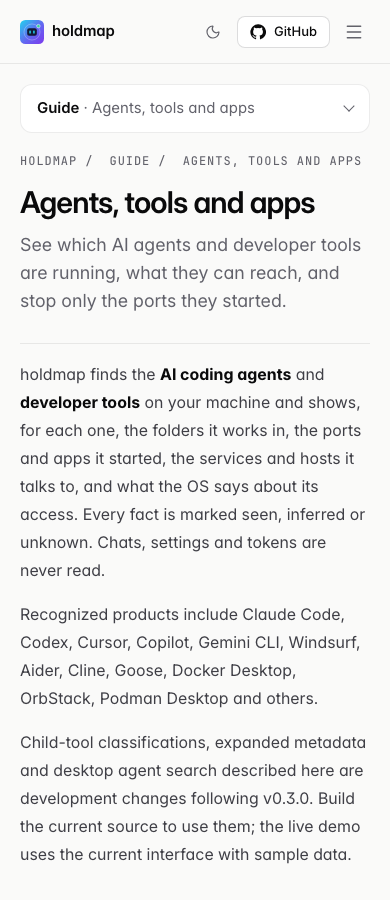
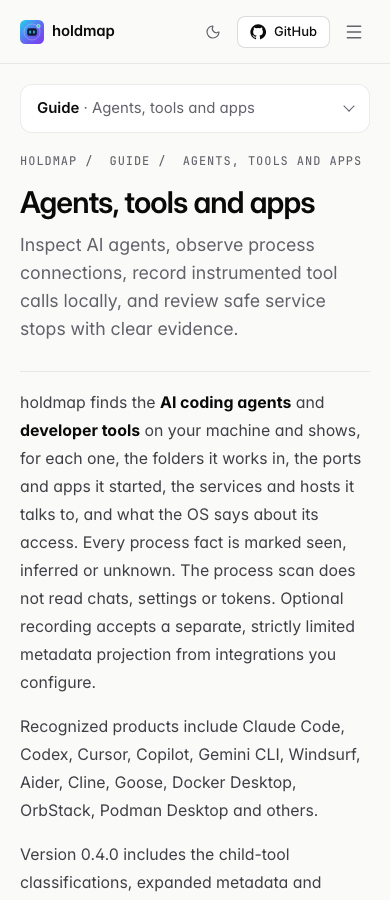
docs: complete public website and current-source guides

Changed region(s): [[0.0308, 0.4044, 0.9231, 0.9956], [0.0615, 0.2489, 0.9231, 0.3733]]

diff --git a/crates/holdmap-cli/src/cli_docs.rs b/crates/holdmap-cli/src/cli_docs.rs
@@ -20,10 +20,24 @@ fn visible_subcommands(cmd: &clap::Command) -> Vec<&clap::Command> {
         .collect()
 }
 
+fn visible_command_paths(cmd: &clap::Command) -> Vec<Vec<String>> {
+    let mut paths = Vec::new();
+    for sub in visible_subcommands(cmd) {
+        let name = sub.get_name().to_owned();
+        paths.push(vec![name.clone()]);
+        for mut path in visible_command_paths(sub) {
+            path.insert(0, name.clone());
+            paths.push(path);
+        }
+    }
+    paths
+}
+
 /// Render the Markdown reference for the whole CLI.
 pub fn reference() -> String {
     let mut root = Cli::command().term_width(WIDTH).max_term_width(WIDTH);
     root.build();
+    let paths = visible_command_paths(&root);
     let mut out = String::new();
     out.push_str("# holdmap CLI reference\n\n");
     out.push_str(
@@ -31,8 +45,9 @@ pub fn reference() -> String {
          HOLDMAP_BLESS=1 cargo test -p holdmap cli_reference -->\n\n",
     );
     out.push_str(&format!(
-        "This page is the `--help` output of every command of holdmap {}. `cargo test` checks it\n\
-         against the code, so it never drifts. For an overview see the [README](../README.md).\n\n",
+        "This page is the `--help` output of every command and nested subcommand in the current\n\
+         source (package version {}). `cargo test` checks it against the code. Released downloads\n\
+         may predate commands or options shown here; see the [README](../README.md) for release availability.\n\n",
         env!("CARGO_PKG_VERSION")
     ));
     out.push_str(
@@ -41,7 +56,12 @@ pub fn reference() -> String {
                   `--no-docker`.\n\n",
     );
     out.push_str("| Command | What it does |\n|---|---|\n");
-    for sub in visible_subcommands(&root) {
+    for path in &paths {
+        let mut sub = &root;
+        for name in path {
+            sub = sub.find_subcommand(name).expect("subcommand");
+        }
+        let name = path.join(" ");
         let about = sub.get_about().map(|a| a.to_string()).unwrap_or_default();
         let aliases: Vec<_> = sub.get_visible_aliases().collect();
         let alias = if aliases.is_empty() {
@@ -50,20 +70,20 @@ pub fn reference() -> String {
             format!(" (alias `{}`)", aliases.join("`, `"))
         };
         out.push_str(&format!(
-            "| [`holdmap {name}`](#holdmap-{name}){alias} | {} |\n",
+            "| [`holdmap {name}`](#holdmap-{anchor}){alias} | {} |\n",
             about.trim_end_matches('.').replace('|', "\\|"),
-            name = sub.get_name()
+            anchor = name.replace(' ', "-")
         ));
     }
     out.push_str("\n## holdmap\n\n```text\n");
     out.push_str(root.render_long_help().to_string().trim_end());
     out.push_str("\n```\n");
-    let names: Vec<String> = visible_subcommands(&root)
-        .iter()
-        .map(|c| c.get_name().to_string())
-        .collect();
-    for name in names {
-        let sub = root.find_subcommand_mut(&name).expect("subcommand");
+    for path in paths {
+        let mut sub = &mut root;
+        for name in &path {
+            sub = sub.find_subcommand_mut(name).expect("subcommand");
+        }
+        let name = path.join(" ");
         let help = sub.render_help().to_string();
         out.push_str(&format!(
             "\n## holdmap {name}\n\n```text\n{}\n```\n",
@@ -76,6 +96,54 @@ pub fn reference() -> String {
         .collect::<Vec<_>>()
         .join("\n")
         + "\n"
+}
+
+#[test]
+fn nested_activity_help_includes_full_usage_and_integration_options() {
+    let reference = reference();
+    for (command, option) in [
+        ("activity serve", "--duration <DURATION>"),
+        ("activity snapshot", "--json"),
+        ("activity setup", "--windows"),
+        ("activity hook", "--provider <PROVIDER>"),
+    ] {
+        let heading = format!("\n## holdmap {command}\n");
+        assert_eq!(reference.matches(&heading).count(), 1);
+        let help = reference
+            .split_once(&heading)
+            .unwrap()
+            .1
+            .split("\n## ")
+            .next()
+            .unwrap();
+        assert!(help.contains(&format!("Usage: holdmap {command} ")));
+        assert!(help.contains(option), "{command} is missing {option}");
+        assert!(reference.contains(&format!("(#holdmap-{})", command.replace(' ', "-"))));
+    }
+}
+
+#[test]
+fn recursive_paths_preserve_depth_and_exclude_hidden_commands_and_help() {
+    let root = clap::Command::new("fixture")
+        .subcommand(
+            clap::Command::new("group")
+                .subcommand(clap::Command::new("nested").subcommand(clap::Command::new("leaf")))
+                .subcommand(clap::Command::new("hidden").hide(true))
+                .subcommand(clap::Command::new("help")),
+        )
+        .subcommand(
+            clap::Command::new("hidden-group")
+                .hide(true)
+                .subcommand(clap::Command::new("visible-child")),
+        );
+    assert_eq!(
+        visible_command_paths(&root),
+        vec![
+            vec!["group"],
+            vec!["group", "nested"],
+            vec!["group", "nested", "leaf"]
+        ]
+    );
 }
 
 #[test]
@@ -101,9 +169,9 @@ fn cli_reference_is_current() {
 fn readme_mentions_every_command() {
     let readme = std::fs::read_to_string(repo_root().join("README.md")).unwrap();
     let root = Cli::command();
-    let missing: Vec<_> = visible_subcommands(&root)
-        .iter()
-        .map(|c| c.get_name())
+    let missing: Vec<_> = visible_command_paths(&root)
+        .into_iter()
+        .map(|path| path.join(" "))
         .filter(|n| !readme.contains(&format!("holdmap {n}")))
         .collect();
     assert!(missing.is_empty(), "README.md doesn't mention: {missing:?}");

diff --git a/docs/cli.md b/docs/cli.md
@@ -3,8 +3,9 @@
 <!-- Generated from the clap definitions in crates/holdmap-cli. Do not edit by hand:
      HOLDMAP_BLESS=1 cargo test -p holdmap cli_reference -->
 
-This page is the `--help` output of every command of holdmap 0.4.0. `cargo test` checks it
-against the code, so it never drifts. For an overview see the [README](../README.md).
+This page is the `--help` output of every command and nested subcommand in the current
+source (package version 0.4.0). `cargo test` checks it against the code. Released downloads
+may predate commands or options shown here; see the [README](../README.md) for release availability.
 
 Global options (accepted by every command): `--color <auto|always|never>` (env `HOLDMAP_COLOR`; `NO_COLOR` and `CLICOLOR_FORCE` are honoured too) and `--no-docker`.
 
@@ -21,6 +22,10 @@ Global options (accepted by every command): `--color <auto|always|never>` (env `
 | [`holdmap graph`](#holdmap-graph) (alias `mesh`) | Show which services talk to which (dependencies, clusters) as a tree, JSON, DOT or Mermaid |
 | [`holdmap agents`](#holdmap-agents) | Show AI coding agents and developer tools: folders, access, ports and connections |
 | [`holdmap activity`](#holdmap-activity) | Record and inspect opt-in local agent activity metadata |
+| [`holdmap activity serve`](#holdmap-activity-serve) | Start an authenticated loopback recorder; metadata stays in memory until this exits |
+| [`holdmap activity snapshot`](#holdmap-activity-snapshot) | Read metadata from the recorder named by HOLDMAP_ACTIVITY_ENDPOINT and TOKEN |
+| [`holdmap activity setup`](#holdmap-activity-setup) | Print a reviewable exporter example; never edit agent configuration automatically |
+| [`holdmap activity hook`](#holdmap-activity-hook) | Project one Codex/Claude hook from stdin to metadata and forward it locally |
 | [`holdmap watch`](#holdmap-watch) | Stream port events: new listeners, closed listeners, conflicts |
 | [`holdmap pin`](#holdmap-pin) | Pin a port (favourite): shown first and watched even when free |
 | [`holdmap unpin`](#holdmap-unpin) | Remove a pin |
@@ -382,6 +387,68 @@ Options:
                        auto, always, never]
       --no-docker      Don't query Docker/Podman/OrbStack/Colima
   -h, --help           Print help
+```
+
+## holdmap activity serve
+
+```text
+Start an authenticated loopback recorder; metadata stays in memory until this exits
+
+Usage: holdmap activity serve [OPTIONS]
+
+Options:
+      --json                 Print endpoint and secret token as JSON for explicit integration setup
+      --duration <DURATION>  Stop automatically after this duration (1 second to 24 hours)
+      --color <COLOR>        When to use colours [env: HOLDMAP_COLOR=] [default: auto] [possible
+                             values: auto, always, never]
+      --no-docker            Don't query Docker/Podman/OrbStack/Colima
+  -h, --help                 Print help
+```
+
+## holdmap activity snapshot
+
+```text
+Read metadata from the recorder named by HOLDMAP_ACTIVITY_ENDPOINT and TOKEN
+
+Usage: holdmap activity snapshot [OPTIONS]
+
+Options:
+      --json           Machine-readable normalized metadata
+      --color <COLOR>  When to use colours [env: HOLDMAP_COLOR=] [default: auto] [possible values:
+                       auto, always, never]
+      --no-docker      Don't query Docker/Podman/OrbStack/Colima
+  -h, --help           Print help
+```
+
+## holdmap activity setup
+
+```text
+Print a reviewable exporter example; never edit agent configuration automatically
+
+Usage: holdmap activity setup [OPTIONS] --provider <PROVIDER>
+
+Options:
+      --provider <PROVIDER>  [possible values: codex, claude]
+      --windows              Generate PowerShell environment assignments instead of shell exports
+      --color <COLOR>        When to use colours [env: HOLDMAP_COLOR=] [default: auto] [possible
+                             values: auto, always, never]
+      --no-docker            Don't query Docker/Podman/OrbStack/Colima
+  -h, --help                 Print help
+```
+
+## holdmap activity hook
+
+```text
+Project one Codex/Claude hook from stdin to metadata and forward it locally
+
+Usage: holdmap activity hook [OPTIONS] --provider <PROVIDER>
+
+Options:
+      --provider <PROVIDER>  [possible values: codex, claude]
+      --color <COLOR>        When to use colours [env: HOLDMAP_COLOR=] [default: auto] [possible
+                             values: auto, always, never]
+      --no-docker            Don't query Docker/Podman/OrbStack/Colima
+  -h, --help                 Print help
 ```
 
 ## holdmap watch

diff --git a/docs/architecture.md b/docs/architecture.md
@@ -1000,8 +1000,9 @@ escaped text, including inline command spans. The browser demo has no native IPC
 
 ### Desktop UI
 
-- **UI kit.** `apps/desktop/src/components/ui/` is the only place that styles controls (fields,
-  selects, switches, buttons, dialogs, tabs…); feature components compose it. Open the app with
+- **UI kit.** `apps/desktop/src/components/ui/` provides shared controls (fields, selects,
+  switches, buttons, dialogs and tabs); feature components compose them and use the shared
+  design tokens for local controls. Open the app with
   `#ui-gallery` to see every control in both themes.
 - **Pure view logic.** `lib/rows.ts` (badges, status, sparklines), `lib/detail.ts` (details pane)
   and `lib/settings.ts` (the Settings contract) are pure and unit-tested, so components depend on
@@ -1135,6 +1136,7 @@ branch; editing source does not itself publish a site.
 | `crates/holdmap-core` | Collection providers, models, attribution, planning, execution and persistence |
 | `crates/holdmap-cli` | CLI rendering, shared reviewed agent actions, TUI view/state helpers, generated-document checks and stdio MCP integration tests |
 | `crates/holdmap-mcp` | Protocol adapter, contracts, live tools and pure discovery modules |
+| `crates/holdmap-activity` | Pure source adapters, shared metadata and credential policy, local collector, bounded client and setup generation |
 | `apps/desktop/src` | Shared Svelte UI, styles and TypeScript view logic |
 | `apps/desktop/src-tauri` | Native commands, state/cache, watcher, tray and OS integration |
 | `apps/desktop/e2e` | Browser regressions using deterministic sample data |
@@ -1156,7 +1158,7 @@ the browser suite on Linux. `scripts/check-all.sh` reproduces the full checks on
 host with its native desktop dependencies installed.
 
 Use Rust 1.95+ and Node.js 22.12+ (`nvm use`), with the native dependencies listed in
-[CONTRIBUTING.md](../CONTRIBUTING.md). `cargo test --locked` checks the core, CLI/TUI and MCP
+[CONTRIBUTING.md](../CONTRIBUTING.md). `cargo test --locked` checks core, CLI/TUI, MCP and activity
 default workspace members. Desktop `npm run check`, `npm test` and `npm run test:e2e` check
 types, pure view logic and production UI flows. Site checks build the shared demo and verify
 guides, links and asset budgets; site `npm run test:demo` launches a preview and checks the

diff --git a/CONTRIBUTING.md b/CONTRIBUTING.md
@@ -34,6 +34,7 @@ The repository root is the Rust workspace; each surface keeps its source and too
 | `crates/holdmap-core/` | Shared port scanning, ownership, safety policy and stop execution |
 | `crates/holdmap-cli/` | CLI and TUI, with integration tests |
 | `crates/holdmap-mcp/` | MCP adapter over the shared core |
+| `crates/holdmap-activity/` | Optional local recording, source adapters, metadata policy and bounded transport |
 | `apps/desktop/src/` | Svelte and TypeScript desktop UI, including browser demo data |
 | `apps/desktop/e2e/` | Browser tests against the built desktop UI in demo mode |
 | `apps/desktop/src-tauri/` | Native desktop integration, Tauri configuration and icons |
@@ -75,7 +76,7 @@ cargo fmt --all --check
 (cd apps/desktop && npm run check && npm test && npm run test:e2e) # builds the UI before native checks
 cargo clippy --workspace --all-targets --locked -- -D warnings
 cargo test --workspace --locked
-RUSTDOCFLAGS="-D warnings" cargo doc --no-deps --locked -p holdmap-core -p holdmap-mcp -p holdmap
+RUSTDOCFLAGS="-D warnings" cargo doc --no-deps --locked -p holdmap-core -p holdmap-mcp -p holdmap-activity -p holdmap
 cargo build --locked -p holdmap-desktop
 scripts/check-cross.sh                       # type-checks the macOS and Windows backends from Linux
 (cd site && npm run check && npm run build && npm test)  # website: types, links, size budget and SEO
@@ -93,6 +94,8 @@ cargo deny --all-features check
 mention every command and only real flags, Markdown links and images must resolve, and every
 screenshot must be used. After changing a command or flag, regenerate the reference with
 `scripts/gen-docs.sh` (or `HOLDMAP_BLESS=1 cargo test -p holdmap cli_reference`) and commit it.
+The generated reference includes nested commands such as `activity serve` and distinguishes
+current-source capabilities from published downloads.
 The desktop tests include a typography lint (use the `--fs-*`/`--fw-*` tokens from `app.css`, not
 raw values) and a WCAG AA contrast lint for both themes. Browser tests cover agent visibility,
 search, navigation and port details using deterministic demo data. The CLI integration tests

diff --git a/SECURITY.md b/SECURITY.md
@@ -76,9 +76,10 @@ out of scope.
   64 messages. Oversized input is rejected before dispatch, and an oversized frame is drained
   completely so it cannot become a later valid request. HTTP probe paths reject request/header
   injection; captured command output is bounded to 4 MiB per stream with a deadline.
-- No product analytics are implemented. Optional agent recording accepts explicitly configured
-  local metadata through a token-authenticated loopback endpoint and retains at most 1,000 spans
-  in memory. Prompts, tool inputs/results and unrelated fields are discarded before retention;
+- No product analytics are implemented. Optional agent recording (current source / Unreleased)
+  accepts explicitly configured local metadata through a token-authenticated loopback endpoint
+  and retains at most 1,000 spans in memory. Prompts, tool inputs/results and unrelated fields
+  are discarded before retention;
   identifiers are pseudonymized. Source labels are sanitized, not guaranteed secret-free.
   Status/snapshot/errors exclude the token, and recording has no process-action authority.
   See [agent flow bounds and privacy](docs/agent-flow.md#privacy-security-and-bounds).
@@ -127,8 +128,9 @@ redaction is heuristic and may miss arbitrary positional secrets. Windows privac
 filesystem ACLs, including any custom state directory. Process visibility depends on OS
 permissions, and macOS retains a check-to-signal race; Linux pidfds and Windows process
 handles bind signalling more directly to process identity. Review plans and avoid sharing raw
-history/logs without inspecting them. Version 0.4.0 includes the security hardening described
-here; see the [0.4.0 changes](CHANGELOG.md#040---2026-10-10). Version 0.3.0 predates these fixes.
+history/logs without inspecting them. Version 0.4.0 includes the security changes listed in the
+[0.4.0 release entry](CHANGELOG.md#040---2026-10-10). Features marked current source / Unreleased
+require a source build until a release includes them. Version 0.3.0 predates those release fixes.
 
 ## Scheduled desktop actions (current source)
 

diff --git a/site/src/content/docs/mcp.md b/site/src/content/docs/mcp.md
@@ -91,9 +91,12 @@ For clients exposing tools alone, ask for tasks such as:
 - “Show the agents working in shop-web, including child tools and collection limits.”
 
 A free port is a candidate, not a reservation. TCP readiness does not establish application
-health. Likely MCP servers are inferred from process metadata; Holdmap does not trace tool
-calls or verify their transport. Recent folders are current-account history, attached only when
-the agent's account matches; they do not establish current work by a particular agent instance.
+health. Likely MCP servers are inferred from process metadata. Passive inspection does not
+record individual tool calls or verify their transport. Optional
+[instrumented Agent Flow recording](../agents/#set-up-optional-recording) is available in
+**current source / Unreleased** and receives metadata from integrations you configure.
+Recent folders are current-account history, attached only when the agent's account matches;
+they do not establish current work by a particular agent instance.
 
 Before considering a stop, request `get_topology` with `all: true` to include system and
 application services. Its default view is filtered to development services and their peers.

diff --git a/site/src/content/docs/agents.md b/site/src/content/docs/agents.md
@@ -101,7 +101,9 @@ has stopped.
 The copied configuration contains a private local bearer token. The collector binds to loopback,
 requires that token, rejects browser-origin requests and retains metadata in memory on this
 computer. **Stop recording** ends collection and keeps the current snapshot. **Clear records**
-removes it from memory; closing Holdmap also discards it. Recording does not survive a full quit.
+removes it from memory; fully quitting Holdmap also discards it. Closing the desktop window
+keeps Holdmap and any active recording running in its tray or menu bar. Recording does not
+survive a full quit.
 
 The default setup uses Codex telemetry logs and Claude Code telemetry traces; Claude Code
 tracing is a beta capability. Standard OpenTelemetry JSON traces and explicit hook or MCP

diff --git a/README.md b/README.md
@@ -558,7 +558,7 @@ Use Rust 1.95+ and Node.js 22.12+ (`nvm use`). [CONTRIBUTING.md](CONTRIBUTING.md
 system dependencies, Chromium, actionlint and cargo-deny setup. Useful checks are:
 
 ```sh
-cargo test --locked                                  # core, CLI/TUI and MCP
+cargo test --locked                                  # core, CLI/TUI, MCP and activity
 (cd apps/desktop && npm ci && npm run check && npm test && npm run test:e2e)
 (cd site && npm ci && npm run check && HOLDMAP_SITE_OFFLINE=1 npm run build && npm test && npm run test:demo)
 scripts/check-all.sh                                  # complete workspace and native checks

diff --git a/CHANGELOG.md b/CHANGELOG.md
@@ -30,6 +30,9 @@ by [release-please](https://github.com/googleapis/release-please) from
 - Agent recording separates hook/OTLP parsing, shared metadata and credential policy, typed
   HTTP routing, MCP delivery and UI controls. Native commands share authorized session access;
   unknown recording status stays explicit until a successful refresh.
+- The CLI reference includes nested activity commands and identifies current-source availability.
+  Public guides clarify opt-in recording, tray/quit behavior and process-protection limits;
+  the homepage links local shutdown and scheduling guidance.
 
 ### Security
 
